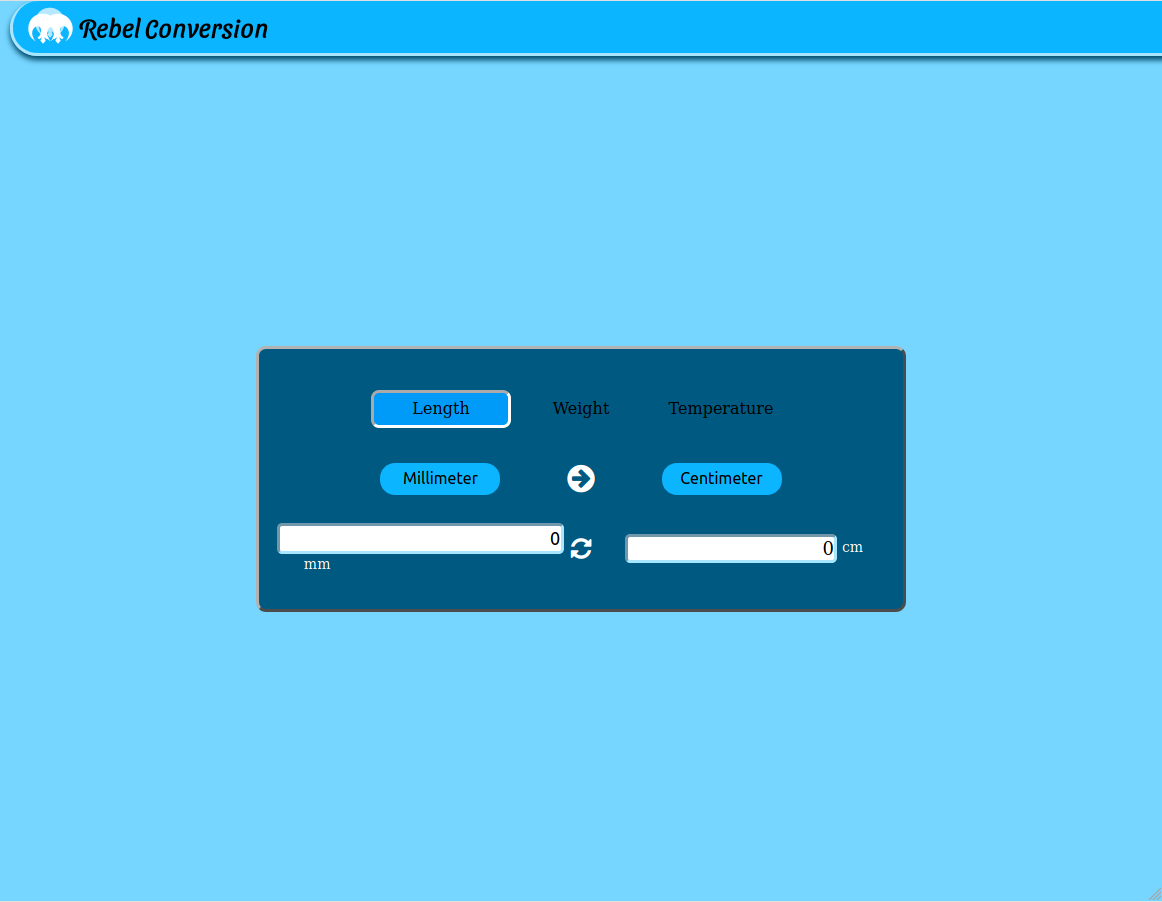
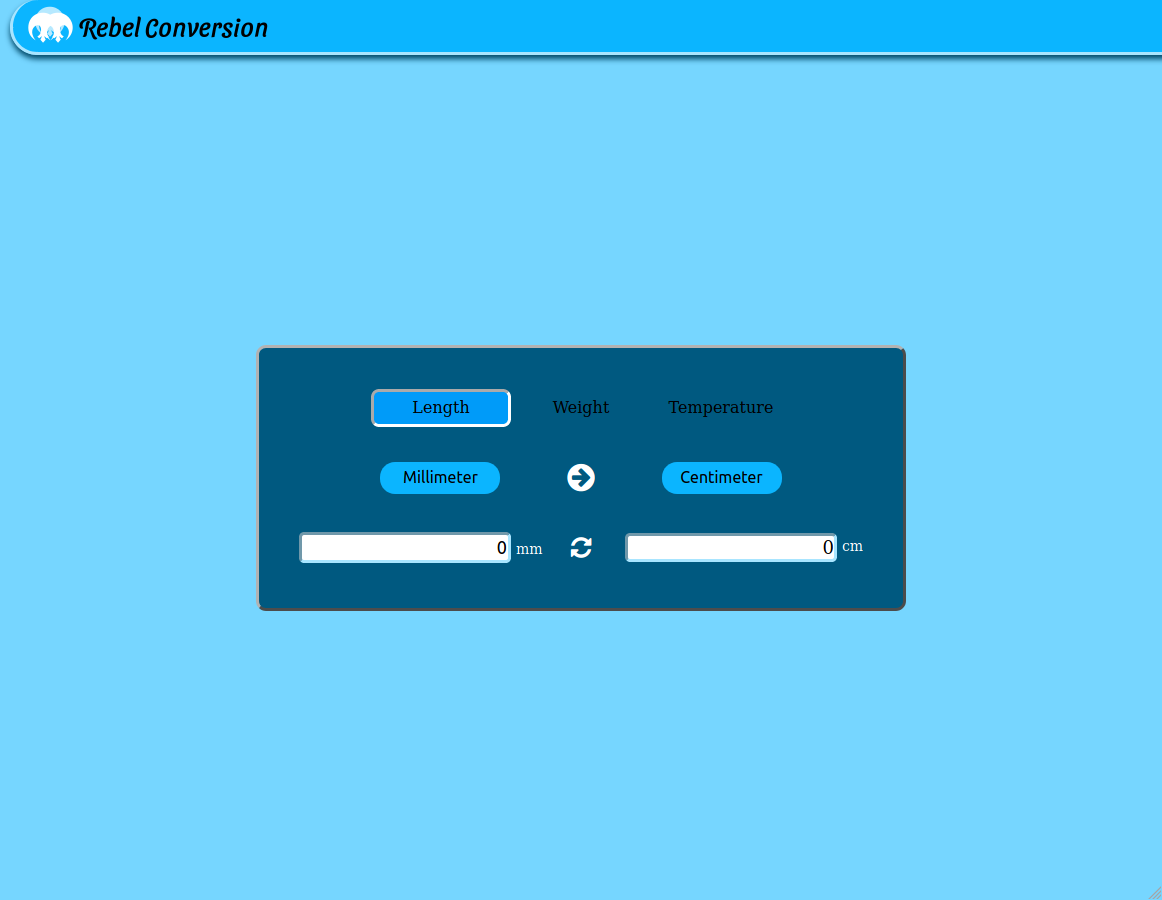
update

Changed region(s): [[0.0, 0.9644, 1.0, 1.0], [0.2169, 0.56, 0.4957, 0.6533], [0.0, 0.0, 0.2478, 0.0622]]

diff --git a/src/style/interact.scss b/src/style/interact.scss
@@ -22,11 +22,12 @@
      background-color: white;
      font-size: 18px !important;
      line-height: 1.3;
-     float: right;
+    // float: right;
      overflow-x: auto;
    }
    #display{
        @include displayPosition(block,relative);
+       float: right;
    }
    #end  span{
      @include displayPosition(block,relative);
@@ -84,7 +85,7 @@
     i{
       font-size: 24px;
     }
-    #display{
+    #display, #input{
       width: 80%;
     }
     #input ~ span{
